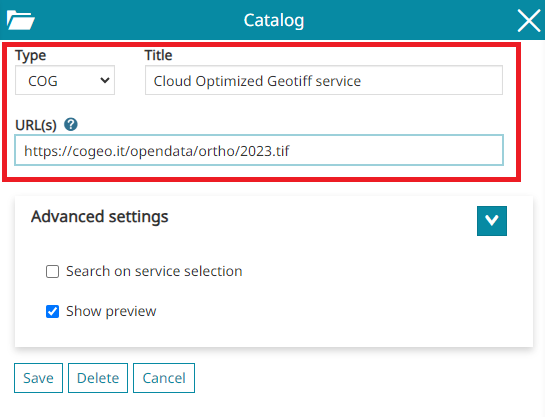
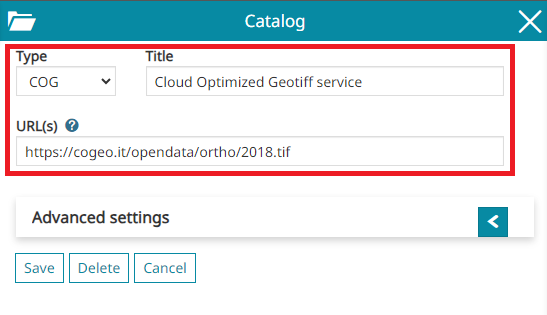
9501_update

diff --git a/docs/user-guide/catalog.md b/docs/user-guide/catalog.md
@@ -198,6 +198,8 @@ WMS and WMTS Services are [OGC Standards](https://www.ogc.org/standards) protoco
 
 In **General Settings** the user can set the title he wants to assign to this service and the URL of the service to configure the service and its URL.
 
+#### Advanced Settings
+
 In addition to the standard options, only for WMS catalog sources, through the **Advanced Settings** the user can configure also the following options:
 
 <img src="../img/catalog/advanced_settings_wms.jpg" class="ms-docimage"  style="max-width:500px;" />
@@ -357,3 +359,11 @@ MapStore allows to add COG layers (also as a background) through its *Catalog* t
 In **General Settings** of a COG source type, it is possible to specify the service `Title` and its `URL`.
 
 <img src="../img/catalog/cog_service.jpg" class="ms-docimage"  style="max-width:600px;"/>
+
+#### Advanced Settings
+
+In addition to the standard options, only for COG catalog sources, through the **Advanced Settings** the user can configure also the following option:
+
+<img src="../img/catalog/advanced_settings_cog.jpg" class="ms-docimage"  style="max-width:600px;"/>
+
+* *Download file metadata on search*: this option will fetch metadata to support the zoom to layer when the layer is added to the [TOC](toc.md#table-of-contents).
